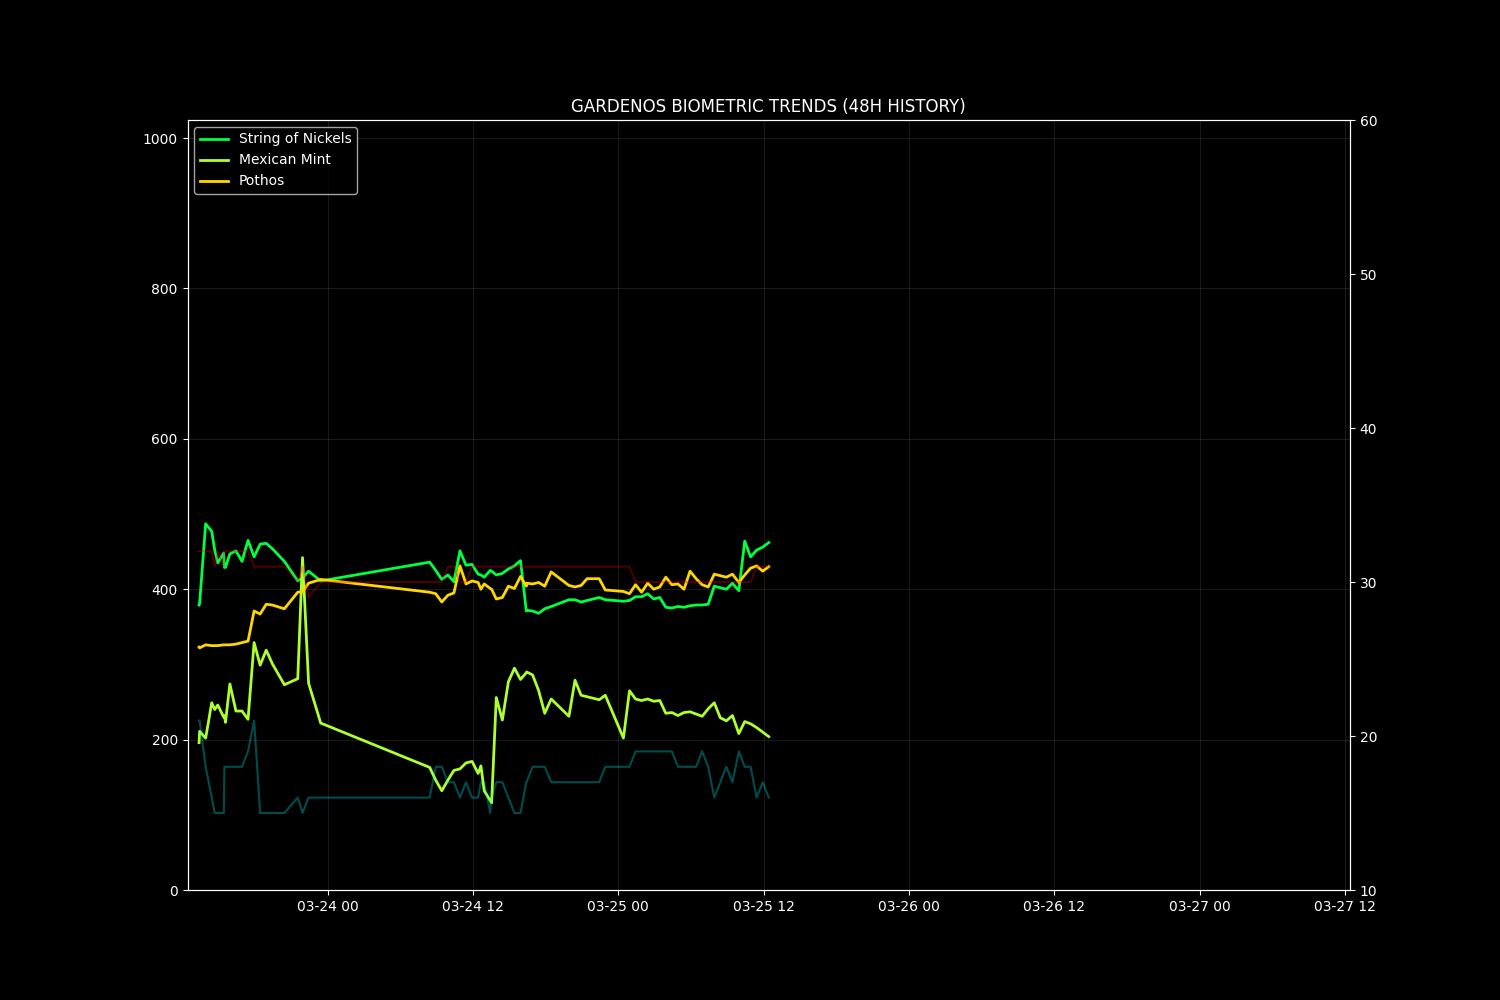
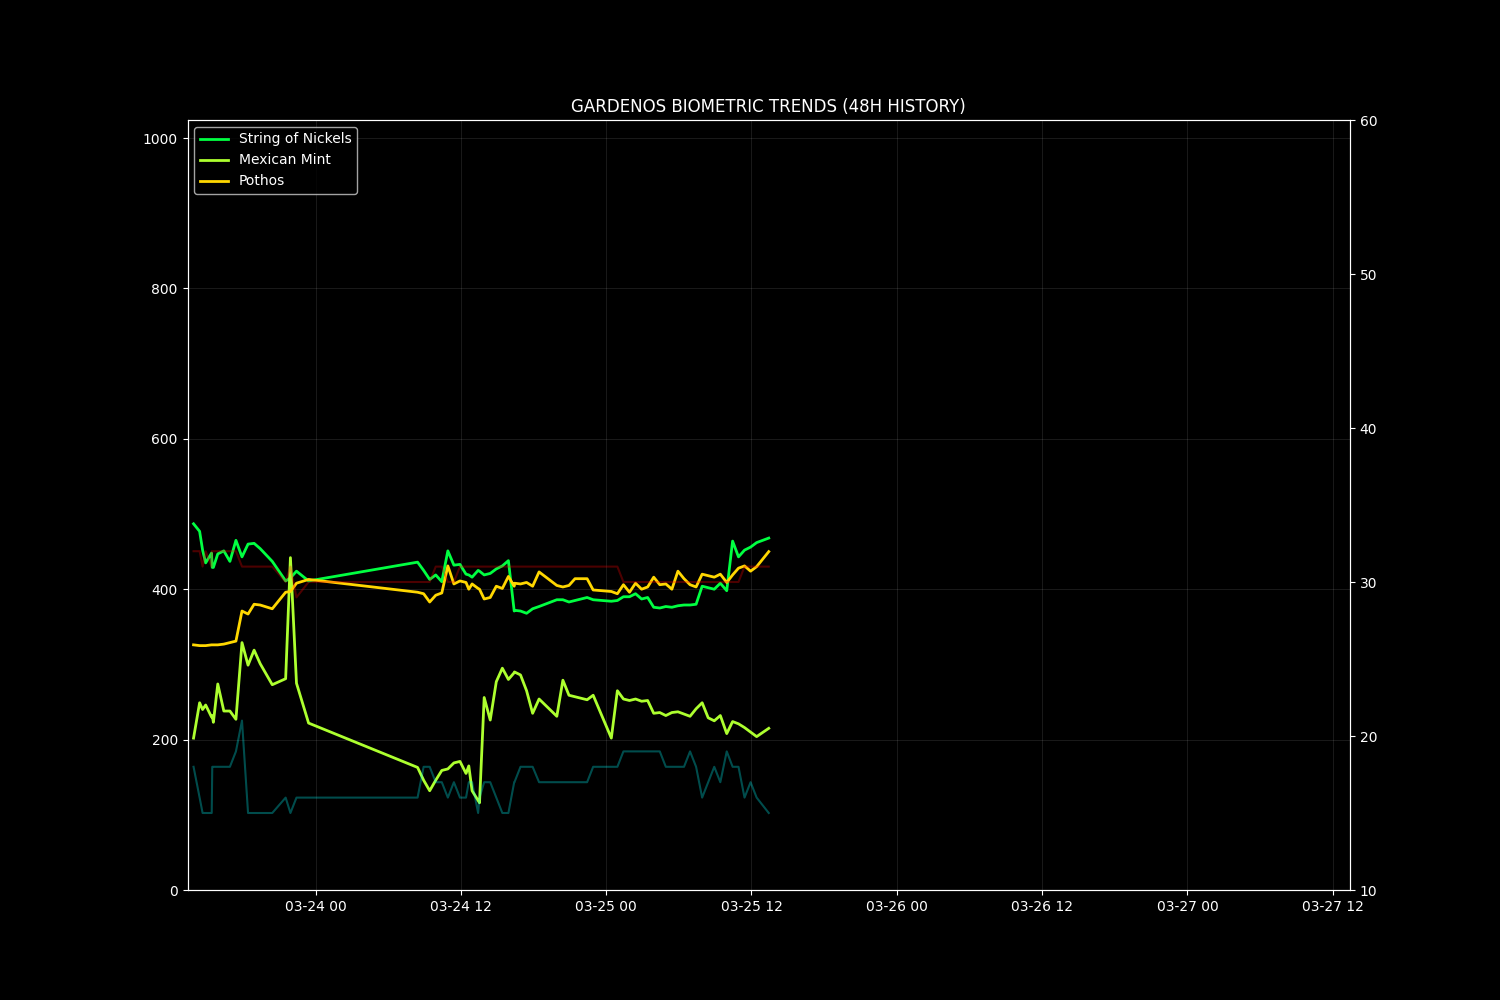
Warden Cycle: 2026-03-25 13:25:29

diff --git a/docs/data/observer_context.md b/docs/data/observer_context.md
@@ -1,21 +1,21 @@
 # 📝 Garden Observer Context
-**Generated:** 2026-03-25 11:58:01
+**Generated:** 2026-03-25 12:58:02
 
 ## 1. 🌡 Recent Telemetry (Last 12 Readings)
 ```csv
 timestamp,temp,hum,light,p1,p2,p3
-2026-03-25 10:55:34,30.0,18.0,660,443.0,221.0,428.0
 2026-03-25 11:25:28,31.0,16.0,665,452.0,216.0,431.0
 2026-03-25 11:55:28,31.0,17.0,565,456.0,210.0,424.0
+2026-03-25 12:25:28,31.0,16.0,551,462.0,204.0,430.0
 
 ```
 
 ## 2. 📊 Computed Metrics (Last 12 Calculations)
 ```csv
 timestamp,vpd,p1_pct,p1_slope,p2_pct,p2_slope,p3_pct,p3_slope,p4_pct,p4_slope,p5_pct,p5_slope,p6_pct,p6_slope,p1_is_dry,p2_is_dry,p3_is_dry
-2026-03-25 10:55:34,3.479,87.1,,93.1,,70.1,,,,,,,,False,False,False
 2026-03-25 11:25:28,3.774,84.4,,95.3,,69.2,,,,,,,,False,False,False
 2026-03-25 11:55:28,3.729,83.1,,97.9,,71.2,,,,,,,,False,False,False
+2026-03-25 12:25:28,3.774,81.3,,100.0,,69.5,,,,,,,,False,False,False
 
 ```
 
@@ -103,52 +103,6 @@ timestamp,vpd,p1_pct,p1_slope,p2_pct,p2_slope,p3_pct,p3_slope,p4_pct,p4_slope,p5
 ```
 
 ## 4. 📖 Previous Ledger Entries (Last 3)
-## 2026-03-24 21:03
-**Visual Assessment**: Based on the 20:55 snapshot and latest.jpg analysis (visual data prioritized per protocol), all plants (p1-p4) remain in a healthy, stable state. Nighttime settling is observed, with all primary foliage on p1, p2, and p3 maintaining full turgidity. p4's localized minor wilting on the lower center leaf is unchanged and stable.
-
-**Plant-by-Plant Analysis (Visual Priority)**:
-- **p1 (String of Nickels)**: Leaves are plump and show no signs of stress in low-light conditions.
-- **p2 (Mexican Mint)**: Lush and upright. The plant shows strong nighttime posture.
-- **p3 (Pothos)**: Firm foliage and vigorous appearance. No drooping or curling.
-- **p4 (Silver Guest Alpha)**: Overall silver foliage is healthy and compact. The single wilting leaf remains a non-progressive localized issue.
-
-**Telemetry Context (20:55:35)**:
-- p1: 89.2% (wet) - excellent moisture levels.
-- p2/p4: 67.5% (wet) - adequate moisture levels.
-- p3: 72.9% (wet) - good moisture levels.
-- Environmental: 30.0°C, 17.0% humidity, 0 light - standard nighttime conditions with persistent low humidity.
-- Weather: Scattered clouds with 79% humidity forecast.
-- VPD: 3.551 kPa.
-
-**Plant Condition Assessment**:
-Visual assessment confirms robust health despite extremely low ambient humidity. The 100% turgidity in p1-p3 indicates effective water retention and root health. System targets are met.
-
-**Recommended Action**:
-- No immediate intervention required.
-- Continue standard monitoring schedule.
-- Maintain tracking into the 00:03 cycle.
-
----
-
----
-
-## 2026-03-25 06:03
-Visual Assessment: Based on latest.jpg analysis (visual data prioritized per protocol), all plants maintain healthy turgidity and vigor. p1, p2, p3 show excellent turgidity, no drooping, color vibrant. p4 exhibits stable localized minor wilting on one lower leaf, unchanged.
-
-Plant-by-Plant Analysis:
-- p1 (String of Nickels): Leaves plump, turgid, vibrant green. No signs of stress.
-- p2 (Mexican Mint): Foliage lush, upright, green. Turgid, no wilting.
-- p3 (Pothos): Leaves firm, phototropic, vigorous growth.
-- p4 (Silver Guest Alpha): Compact silver foliage healthy; single wilting leaf stable.
-
-Telemetry Context (05:55:28): p1 100% (wet), p2/p4 86.3% (wet), p3 71.2% (wet). Environmental: 30.0°C, 18.0% humidity, 896 light. VPD 3.479 kPa.
-
-Growth Pulse (06:00 AM): Compared to 24 hours ago, p3 (Pothos) shows approx. 2 mm new leaf extension; p2 (Mexican Mint) shows approx. 1 mm new leaf pair expansion. Using White Rabbit (50mm) as scale anchor. Vigor trend positive.
-
-Action: No immediate watering required. Continue misting schedule. Monitor p4's wilting leaf for any progression.
-
----
-
 ## 2026-03-25 09:03
 
 **Vitality Pulse**: p1: 🟢 NOMINAL (100% wet) [visual: turgid]; p2: 🟢 NOMINAL (91% wet); p3: 🟢 NOMINAL (74% wet); p4: 🟢 NOMINAL (91% wet) [shared sensor]
@@ -158,6 +112,26 @@ Action: No immediate watering required. Continue misting schedule. Monitor p4's 
 **Growth Momentum**: Apical Leans: No significant apical lean observed in p1-p3; all exhibit upright growth. Stasis Points: No new stasis points; growth points remain active. (mm-deltas not measured outside 06:00 AM)
 
 **Weather Alignment**: Forecast: 26.3°C, 84% humidity, mist. Current: 30.0°C, 18.0% humidity. Plants show good turgidity, indicating effective water retention. Forecast mist and higher humidity are favorable.
+
+**The Warden's Decision**: Verdict: All plants are healthy and well-hydrated. No intervention required. Action: Continue standard monitoring. Prepare for light misting if humidity does not rise as forecasted.
+
+---
+
+## 2026-03-25 12:03
+
+**Vitality Pulse**: p1: 🟢 NOMINAL (83
+
+---
+
+## 2026-03-25 12:03
+
+**Vitality Pulse**: p1: 🟢 NOMINAL (83% wet) [visual: turgid]; p2: 🟢 NOMINAL (98% wet); p3: 🟢 NOMINAL (71% wet); p4: 🟢 NOMINAL (98% wet) [shared sensor]
+
+**The Biome Discovery**: Soil surface shows no crusting, moisture appears even. Shadow angles consistent with midday light. Sensor wires are secured and not causing any physical stress to plants.
+
+**Growth Momentum**: Apical Leans: No significant apical lean observed in p1-p3; all exhibit upright growth. Stasis Points: No new stasis points; growth points remain active. (mm-deltas not measured outside 06:00 AM)
+
+**Weather Alignment**: Forecast: 26.3°C, 84% humidity, mist. Current: 31.0°C, 16.0% humidity. Plants show good turgidity, indicating effective water retention. Forecast mist and higher humidity are favorable.
 
 **The Warden's Decision**: Verdict: All plants are healthy and well-hydrated. No intervention required. Action: Continue standard monitoring. Prepare for light misting if humidity does not rise as forecasted.
 
